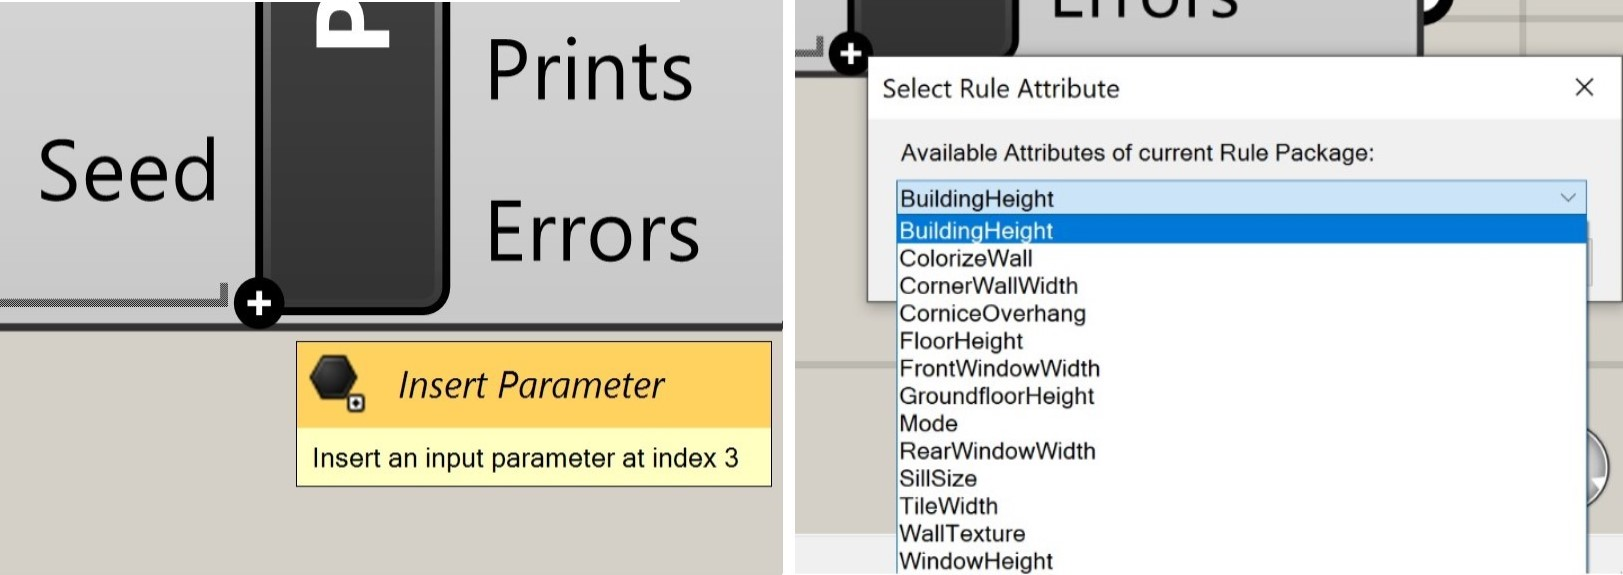
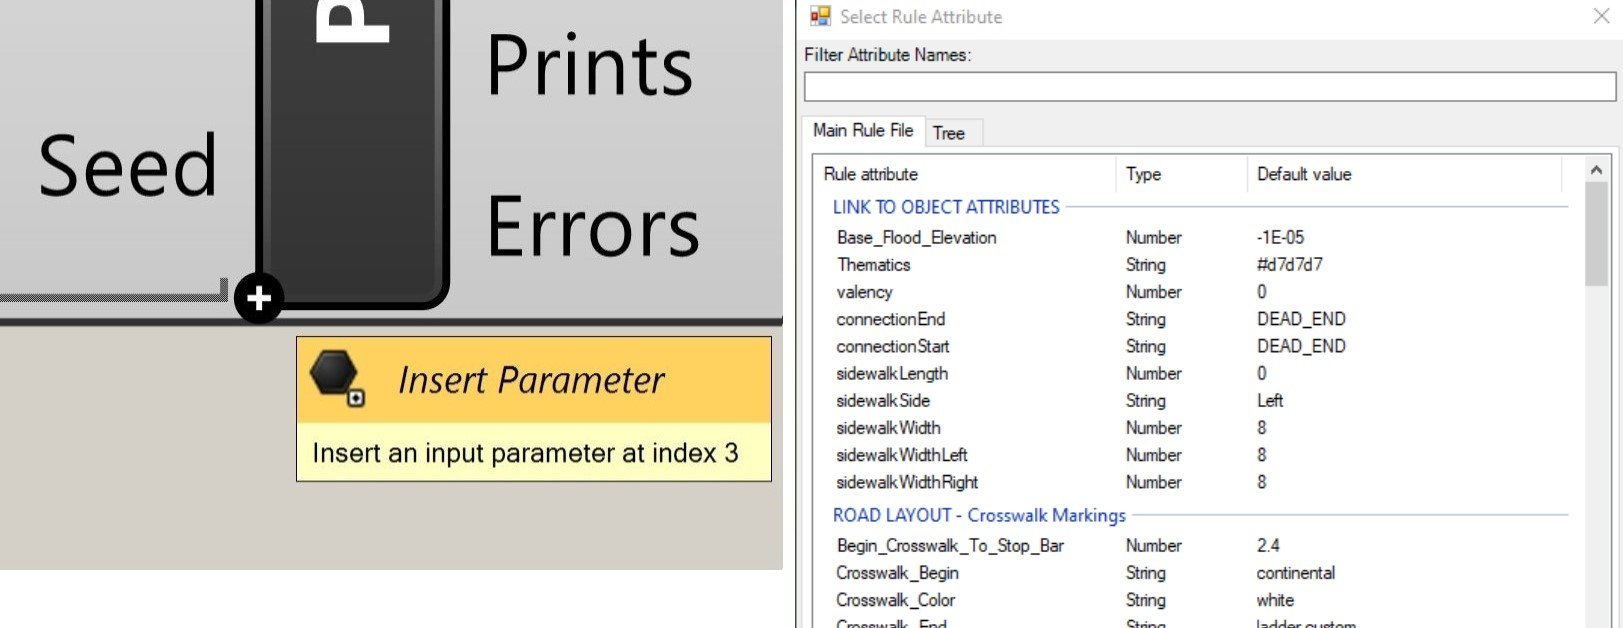
doc: improve attribute section in manual

diff --git a/README.md b/README.md
@@ -87,9 +87,9 @@ To illustrate the use of the "Ngon" plugin, we use the "From Mesh" tool to conve
 
 <img src="doc/img/man_gh_rule_attributes.jpg" width=100%>
 
-When both main inputs are connected, the component is solved a first time. The default values for the cga rule attributes are used. It is possible to override them by adding input parameters to the Puma component. To do that, zoom on the component until a small `+` button appears. It opens a dialog window in which new inputs can be selected from the list of available rule attributes, defined in the rule package currently used.
+When both main inputs for RPK and Shapes are connected, the component starts to generate geometry. Initially, the default values for the CGA rule attributes are used. It is possible to override them by adding input parameters to the Puma component. To do that, zoom on the component until a small `+` button appears. Please note, the `+` button will only appear if the CGA rule defines any attributes. The "Select Rule Attributes" dialog window opens in which new inputs can be selected from the list of available rule attributes, defined in the rule package currently used. The dialog has tabs for the main rule file and optionally for imports. Each tab has columns for name, data type and default value.
 
-These parameters can then be connected to other components. The context menu also provides an easy way to directly assign a value. Puma will use default values for unconnected inputs which are defined in the rules and in general also depend on the input shapes.
+These parameter inputs can then be connected to other Grasshopper components. The context menu also provides an easy way to directly assign a value. Puma will use default values for unconnected inputs which are defined in the rules and in general also depend on the input shapes.
 
 Rule attributes and the corresponding Puma component inputs use four basic data types: (1) Number, (2) String, (3) Boolean (Toggle) and (4) Colour. These can be either single values or lists of values. In case of lists and length mismatches, Puma will either truncate lists or repeat the last value of a list until the length of the `shape(s)` input is matched.
 
